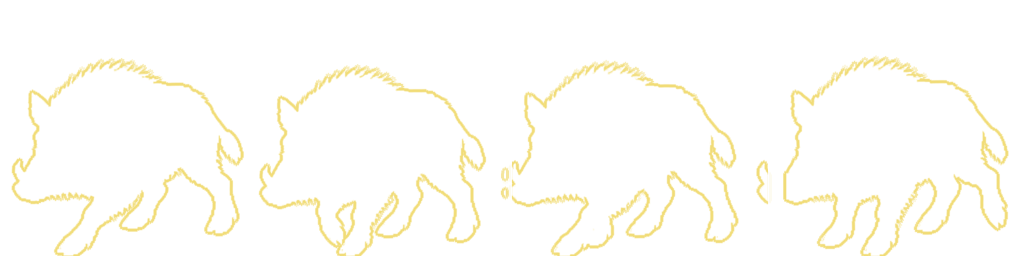
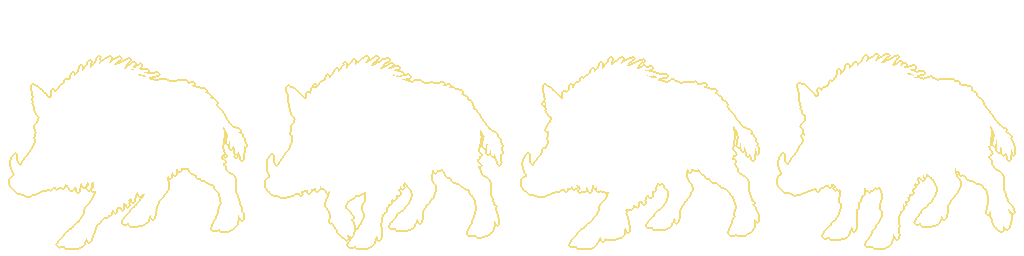
fix: repair wildlife frames and mobile layout

diff --git a/apps/web/src/styles.css b/apps/web/src/styles.css
@@ -63,7 +63,7 @@ h2 { margin: 5px 0 4px; color: #e8e2c6; font: 600 17px/1.3 "KoPubWorld Dotum"; }
 .body-condition > div > span + span { margin-top: 7px; }
 .body-condition--warning .body-condition-figure, .body-condition--warning strong { color: #d08a68; }
 .world-frame { position: relative; width: 100%; height: 100%; min-width: 0; min-height: 0; overflow: hidden; border: 1px solid #9baa783e; background: #0c1d18; box-shadow: 0 25px 60px #0008; }
-.game-canvas { width: 100%; height: 100%; }
+.game-canvas { width: 100%; height: 100%; overflow: hidden; }
 .game-canvas canvas { display: block; width: 100%; height: 100%; margin: auto; image-rendering: pixelated; }
 .world-frame::after { content: ""; position: absolute; inset: 0; pointer-events: none; box-shadow: inset 0 0 80px 15px #04100cbb; background: linear-gradient(180deg, #08130e4d, transparent 25%, transparent 72%, #04100a55); }
 .mini-map { position: absolute; z-index: 5; left: 20px; top: 18px; width: 132px; height: 132px; overflow: hidden; padding: 0; border: 2px solid #c6b970b8; border-radius: 50%; background: #08130f; box-shadow: 0 5px 18px #000c, 0 0 0 4px #07110ed9, inset 0 0 24px #000c; cursor: pointer; }
@@ -254,6 +254,61 @@ h2 { margin: 5px 0 4px; color: #e8e2c6; font: 600 17px/1.3 "KoPubWorld Dotum"; }
 @keyframes drift { to { transform: translate(18px, -25px); opacity: .25; } } @keyframes pulse { to { filter: brightness(1.5); transform: scale(1.04); } }
 @keyframes bodyAlert { to { opacity: .55; transform: scale(.82); transform-origin: center; } }
 @media (max-width: 1000px) { .game-layout { grid-template-columns: 170px minmax(420px, 1fr); } .journal-panel { display: none; } }
-@media (max-width: 720px) { body { overflow: hidden; } .app-shell { height: 100dvh; min-height: 0; padding: 10px; gap: 9px; } .topbar { min-height: 52px; } h1 { font-size: 20px; } .brand-rune { width: 38px; height: 44px; } .game-layout { grid-template-columns: 1fr; grid-template-rows: auto minmax(0, 1fr); } .character-panel { display: grid; grid-template-columns: auto 1fr; gap: 10px; width: 100%; padding: 10px 13px; } .portrait { width: 46px; height: 52px; margin: 0; } .vitals { display: none; } .character-panel .divider, .character-panel .panel-label, .skill-row { display: none; } .world-frame { width: 100%; height: 100%; min-height: 0; } .mini-map { left: 12px; top: 12px; width: 96px; height: 96px; } .world-caption { left: 16px; top: 118px; } .command-deck { min-height: 66px; grid-template-columns: 1fr; padding-top: 2px; } .chat-preview, .build-mark { display: none; } .quickbar { justify-self: center; } .quickbar button { width: 52px; height: 54px; } .server-pill strong, .signout-button { display: none; } }
+@media (max-width: 720px) {
+  body { overflow: hidden; }
+  .app-shell { height: 100dvh; min-height: 0; padding: 8px 10px; gap: 7px; }
+  .topbar { min-height: 50px; }
+  h1 { font-size: 20px; }
+  .brand-rune { width: 38px; height: 44px; }
+  .game-layout { grid-template-columns: 1fr; grid-template-rows: auto minmax(0, 1fr); gap: 7px; }
+  .character-panel { display: grid; grid-template-columns: 46px minmax(0, 1fr); grid-template-rows: auto auto auto; align-items: start; gap: 7px 10px; width: 100%; padding: 8px 12px; }
+  .portrait { grid-column: 1; grid-row: 1; width: 46px; height: 52px; margin: 0; }
+  .character-panel > div:nth-child(2) { grid-column: 2; grid-row: 1; align-self: center; }
+  .vitals { display: none; }
+  .character-panel .divider, .character-panel > .panel-label, .skill-row { display: none; }
+  .body-condition { grid-column: 1 / -1; grid-row: 2; grid-template-columns: 58px minmax(0, 1fr); gap: 8px; margin: 0; min-height: 67px; }
+  .body-condition-figure { width: 54px; height: 67px; }
+  .body-condition strong { font-size: 8px; }
+  .body-condition small { font-size: 7px; }
+  .panel-inventory-button { grid-column: 1 / -1; grid-row: 3; align-self: start; height: 29px; margin: 0; }
+  .character-panel > .inventory-row { display: none; }
+  .world-frame { width: 100%; height: 100%; min-height: 0; }
+  .mini-map { left: 10px; top: 10px; width: 86px; height: 86px; }
+  .world-caption { left: 13px; top: 104px; }
+  .world-hint { display: none; }
+  .inventory-toggle { right: 10px; top: 10px; }
+  .world-map-overlay, .inventory-overlay, .crafting-overlay { inset: 8px; padding: 13px; }
+  .inventory-overlay header, .crafting-overlay header { margin-bottom: 9px; }
+  .command-deck { min-height: 62px; grid-template-columns: 1fr; padding-top: 0; }
+  .chat-preview, .build-mark { display: none; }
+  .quickbar { justify-self: center; gap: 4px; }
+  .quickbar button { width: 51px; height: 52px; }
+  .server-pill strong, .signout-button { display: none; }
+}
 @media (max-width: 600px) { .character-shell { padding: 10px; } .character-select-card { min-height: 0; padding: 20px 16px; } .character-select-title { margin-top: 22px; } .character-entry { grid-template-columns: 48px 1fr; } .character-entry img { width: 44px; height: 50px; } .character-entry > b { display: none; } .character-create { grid-template-columns: 1fr; } }
+@media (max-height: 500px) and (orientation: landscape) {
+  body { overflow: hidden; }
+  .app-shell { height: 100dvh; min-height: 0; padding: 5px 8px; gap: 4px; grid-template-rows: 43px minmax(0, 1fr) 46px; }
+  .topbar { min-height: 43px; }
+  .brand-lockup { gap: 8px; }
+  .brand-rune { width: 32px; height: 36px; font-size: 18px; }
+  .brand-lockup .eyebrow { display: none; }
+  h1 { margin: 0; font-size: 18px; }
+  .server-pill { padding: 6px 8px; }
+  .server-pill strong, .signout-button { display: none; }
+  .game-layout { grid-template-columns: minmax(0, 1fr); grid-template-rows: minmax(0, 1fr); gap: 0; }
+  .character-panel, .journal-panel { display: none; }
+  .world-frame { width: 100%; height: 100%; min-height: 0; }
+  .mini-map { left: 8px; top: 8px; width: 72px; height: 72px; }
+  .world-caption { left: 88px; top: 9px; }
+  .world-hint { display: none; }
+  .inventory-toggle { right: 8px; top: 8px; }
+  .world-map-overlay, .inventory-overlay, .crafting-overlay { inset: 6px; padding: 10px; }
+  .command-deck { min-height: 46px; grid-template-columns: 1fr; padding: 0; }
+  .chat-preview, .build-mark { display: none; }
+  .quickbar { justify-self: center; gap: 4px; transform: none; }
+  .quickbar button { width: 48px; height: 42px; }
+  .quickbar svg { width: 20px; height: 20px; }
+  .quickbar small { display: none; }
+}
 @media (max-width: 760px) { .admin-shell { padding: 8px; }.admin-card { padding: 18px 12px; }.admin-skill { grid-template-columns: 1fr 1fr; }.admin-skill > div { grid-column: 1 / -1; }.admin-card > header { align-items: flex-start; }.admin-card > header h1 { font-size: 16px; } }

diff --git a/apps/web/src/game/scenes/MosswardScene.ts b/apps/web/src/game/scenes/MosswardScene.ts
@@ -1161,6 +1161,19 @@ export class MosswardScene extends Phaser.Scene {
         this.time.delayedCall(80, () => this.scheduleAnimalMovement(animal, members, profile, homeX, homeY, zoneId, state, objectId));
         return;
       }
+      const blockedByAnimal = [...this.animals.entries()].some(([candidateId, candidate]) => {
+        if (candidateId === objectId || !candidate.container.visible) return false;
+        const personalSpace = Math.max(34, (profile.displayHeight + candidate.profile.displayHeight) * 0.48);
+        return Phaser.Math.Distance.Between(targetX, targetY, candidate.container.x, candidate.container.y) < personalSpace;
+      });
+      if (blockedByAnimal) {
+        // Do not let independent wildlife collapse into one composite-looking sprite. Turn and take a
+        // later stride instead; this also keeps small hares from disappearing under turkeys and trees.
+        state.heading = wantsRight ? Math.PI : 0;
+        state.stepsRemaining = Math.max(1, state.stepsRemaining - 1);
+        this.time.delayedCall(Phaser.Math.Between(180, 420), () => this.scheduleAnimalMovement(animal, members, profile, homeX, homeY, zoneId, state, objectId));
+        return;
+      }
       if (!this.isAnimalRouteOpen(profile, zoneId, animal.x, animal.y, targetX, targetY)) {
         // Turn away in two or three modest steering steps. A single 180° snap is especially obvious
         // with a pack because every follower flips on the same frame.

diff --git a/apps/web/src/game/GameCanvas.tsx b/apps/web/src/game/GameCanvas.tsx
@@ -24,6 +24,10 @@ export function GameCanvas({ gender, language, equipped, equipment, structures }
       const canvas = gameRef.current.canvas;
       canvas.style.width = `${Math.round(entry.contentRect.width)}px`;
       canvas.style.height = `${Math.round(entry.contentRect.height)}px`;
+      // Phaser's scale manager writes centering margins while the viewport is changing. On a phone
+      // rotation those values can be calculated from the previous parent width and survive after our
+      // explicit resize, pushing the whole world down and to the right. This host owns the exact size.
+      canvas.style.margin = "0";
     });
     resizeObserver.observe(host);
 
